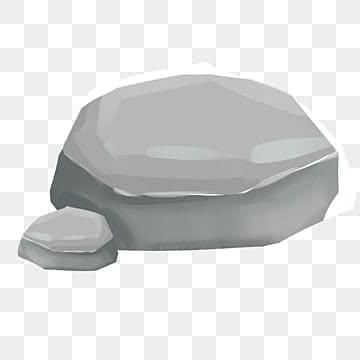
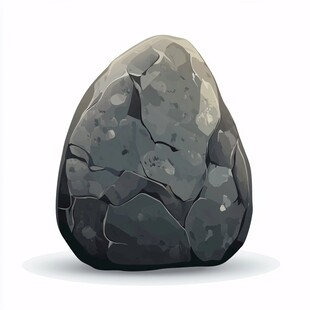
0608

diff --git a/homework2.html b/homework2.html
@@ -6,7 +6,7 @@
         <style>
             body{
                 background-color: rgba(149, 149, 150, 0.822);
-
+                transition: background-color 0.3s;
             }
             button{
                 background-color: white;
@@ -18,6 +18,9 @@
             button:hover{
                 border-color: rgb(0, 153, 255);
                 transform: scale(1.2);
+            }
+            button:active{
+                transform: scale(0.95);
             }
             .score_board{
                 background-color: white;
@@ -32,8 +35,24 @@
             font-size: 16px;
             font-weight: bold;
         }
-           
-        
+           #game_re {
+            width: 60px;
+            height: 60px;
+            position: absolute;
+            top: 90px;
+            right: 20px;
+            border-radius: 8px;
+            border: 3px solid black;
+            box-shadow: 0 2px 6px rgba(0,0,0,2);
+            transition: 0.3s;
+           }
+           #game_re:hover {
+            border: 3px solid rgb(71, 71, 71);
+            transform: scale(1.05);
+        }
+            #game_re:active{
+                transform: scale(0.9);
+            }
         
         
         
@@ -70,8 +89,9 @@
                 <p>你出了:<span id="your"></span></p>
                 <p>他出了:<span id="his"></span></p>
                 <h2 id="game_result">請出拳!!!!</h2>
+                 <img id="game_re" src="pic/rework.png" >
             </div>
-        
+           
         
         
         
@@ -79,6 +99,7 @@
         <script>
             //常數
             const pd = document.getElementById('your')
+            const rb = document.getElementById('game_re')
             const cd = document.getElementById('his')
             const rd = document.getElementById('game_result')
             
@@ -110,6 +131,27 @@
                  pd.textContent = '剪刀';
                 playGame('剪刀');    
             });
+            document.getElementById('game_re').addEventListener('click', ()=>{
+            w = 0; 
+            l = 0;
+            t = 0;
+            s = 0;
+            m = 0;
+
+            wd.textContent = w;
+            ld.textContent = l;
+            td.textContent = t;
+            sd.textContent = s;
+            md.textContent = m;
+            rad.textContent = '0%';
+
+            pd.textContent = '';
+            cd.textContent = '';
+            rd.textContent = '請出拳!!!!';
+
+            document.body.style.backgroundColor ='rgba(149, 149, 150, 0.822)'
+            
+            })
             //gamestart
             function playGame(your){
                 const choices = ['剪刀','石頭','布']
@@ -123,6 +165,7 @@
                     rd.textContent = '平手! 🤝';
                     t++
                     s = 0
+                    document.body.style.backgroundColor = '#b3f65c';
                 }
                 else if (
                     your == '石頭' && his == '剪刀' || 
@@ -134,12 +177,14 @@
                     s++
                     if(s > m ){
                         m = s
+                        document.body.style.backgroundColor = '#26a9ff';
                     }
                 }
                 else {
                     rd.textContent='YOU LOSE! 👎'
                     l++
                     s = 0
+                    document.body.style.backgroundColor = '#ff0000';
                 }
             //勝率
             const total = w + l + t

diff --git a/index.html b/index.html
@@ -22,6 +22,7 @@
 <li><a href="0511.html">0511-元素產生與消失</a></li>
 <li><a href="0518.html">0518-鍵盤控制人物移動</a></li>
 <li><a href="0525.html">0525-宇宙射擊</a></li>
+<li><a href="homework2.html">第二次作業</a></li>
 </ul>
 
 </body>
